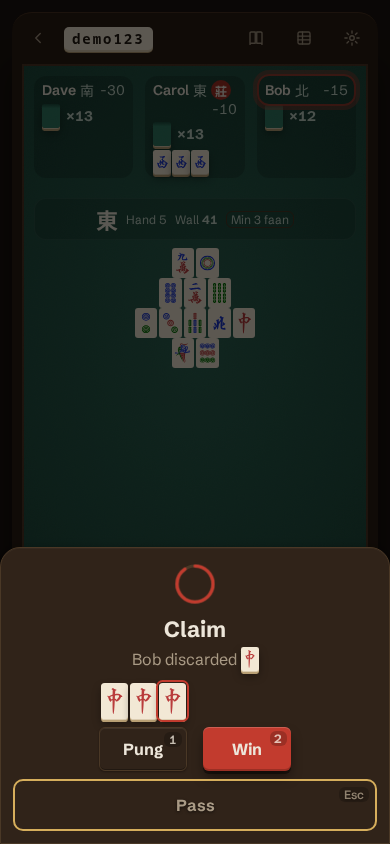
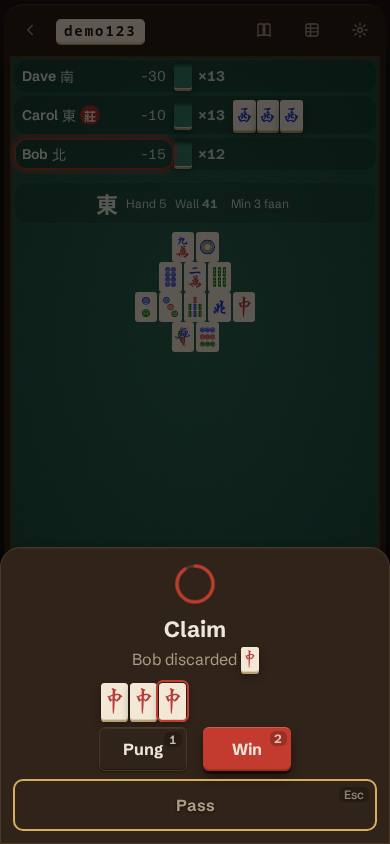
feat(web): roomier phone table layout, no double-tap zoom
- portrait: hand wraps to two rows of 7 non-overlapping tiles; trimmed page/rim/felt gutters
- phone opponents: full-width chip rows (plate, ×N, melds wrapping only when needed)
- landscape: own melds beside the seat plate; hand tiles sized by width and height (44-56px)
- html touch-action: manipulation disables double-tap zoom; no tap highlight/selection on tiles

diff --git a/web/src/routes/table/[id]/table.e2e.ts b/web/src/routes/table/[id]/table.e2e.ts
@@ -197,6 +197,56 @@ for (const [width, height] of VIEWPORTS) {
 	});
 }
 
+test('a portrait phone wraps the hand into two rows of non-overlapping tiles', async ({ page }) => {
+	await page.setViewportSize({ width: 390, height: 844 });
+	await page.goto('/table/abc123?mock=your-turn');
+	await page.waitForLoadState('networkidle');
+
+	const boxes = await page
+		.locator('.seat-region--self .hand-tile-slot')
+		.evaluateAll((els) => els.map((el) => el.getBoundingClientRect().toJSON()));
+	expect(boxes).toHaveLength(14);
+	expect(new Set(boxes.map((b) => Math.round(b.top))).size).toBe(2);
+	for (const [i, a] of boxes.entries()) {
+		expect(a.width).toBeGreaterThanOrEqual(36);
+		for (const b of boxes.slice(i + 1)) {
+			const overlap =
+				a.left < b.right - 0.5 &&
+				b.left < a.right - 0.5 &&
+				a.top < b.bottom - 0.5 &&
+				b.top < a.bottom - 0.5;
+			expect(overlap).toBe(false);
+		}
+	}
+});
+
+test('portrait phone opponents are stacked full-width chip rows', async ({ page }) => {
+	await page.setViewportSize({ width: 390, height: 844 });
+	await page.goto('/table/abc123?mock=your-turn');
+	await page.waitForLoadState('networkidle');
+
+	const boxes = [];
+	for (const pos of ['left', 'across', 'right']) {
+		boxes.push((await page.locator(`.seat-region--${pos}`).boundingBox())!);
+	}
+	for (const box of boxes) expect(box.width).toBeGreaterThan(300);
+	expect(boxes[0].y + boxes[0].height).toBeLessThanOrEqual(boxes[1].y);
+	expect(boxes[1].y + boxes[1].height).toBeLessThanOrEqual(boxes[2].y);
+});
+
+test('phone landscape puts your melds on the seat plate row', async ({ page }) => {
+	await page.setViewportSize({ width: 844, height: 390 });
+	await page.goto('/table/abc123?mock=your-turn');
+	await page.waitForLoadState('networkidle');
+
+	const self = page.locator('.seat-region--self');
+	const plate = (await self.locator('.seat-plate').boundingBox())!;
+	const melds = (await self.locator('.meld-row').boundingBox())!;
+	expect(melds.x).toBeGreaterThan(plate.x + plate.width);
+	expect(melds.y).toBeLessThan(plate.y + plate.height);
+	expect(melds.y + melds.height).toBeGreaterThan(plate.y);
+});
+
 for (const [width, height] of [
 	[390, 844],
 	[844, 390],

diff --git a/web/src/lib/table/YourSeatRegion.svelte b/web/src/lib/table/YourSeatRegion.svelte
@@ -405,6 +405,10 @@
 		background: none;
 		cursor: pointer;
 		transition: transform var(--dur-1) var(--ease-out);
+		// rapid taps on ios otherwise select the face glyph or flash the grey tap highlight.
+		-webkit-tap-highlight-color: transparent;
+		-webkit-touch-callout: none;
+		user-select: none;
 
 		// hit area extended down by the lift so the pointer stays over a raised tile; without it,
 		// hovering the bottom edge lifts the tile off the pointer and hover/cursor flicker.
@@ -523,11 +527,56 @@
 		}
 	}
 
-	// short landscape: the hand can't take a third of a ~390px screen; tiles stop at the 44px
-	// touch-target width instead of growing to 63.
-	@include layout.phone-landscape {
+	// portrait phone: 14 tiles in one row overlap to ~half a face, so wrap to two rows of 7 that
+	// never overlap; the centre has height to spare. row-gap clears a lifted second-row tile.
+	@include layout.phone-portrait {
+		.seat-region--self {
+			padding-inline: var(--space-1);
+		}
+
 		.hand-row {
-			--hand-tile-w: 44px;
+			--hand-tile-w: clamp(
+				36px,
+				calc((100cqi - 6 * var(--hand-gap) - var(--hand-drawn-gap) - 1px) / 7),
+				63px
+			);
+			--hand-step: var(--hand-gap);
+			flex-wrap: wrap;
+			row-gap: calc(var(--hand-tile-w) * 0.4);
+			padding-block-start: calc(var(--hand-tile-w) * 0.4);
+		}
+
+		.hand-tile-slot:nth-child(7n + 1):not(.hand-tile-slot--drawn) {
+			margin-inline-start: 0;
+		}
+	}
+
+	// short landscape: melds share the plate's row instead of taking their own, and tiles grow
+	// with width only as far as ~16% of the viewport height allows (44px floor, 56px cap).
+	@include layout.phone-landscape {
+		.seat-region--self {
+			display: grid;
+			grid-template-areas: 'plate melds' 'hand hand';
+			grid-template-columns: auto minmax(0, 1fr);
+			align-items: center;
+			column-gap: var(--space-4);
+		}
+
+		.seat-region--self > :global(.seat-plate) {
+			grid-area: plate;
+		}
+
+		.meld-row {
+			grid-area: melds;
+			min-block-size: 0;
+		}
+
+		.your-hand {
+			grid-area: hand;
+		}
+
+		.hand-row {
+			--hand-tile-w: clamp(44px, min(var(--hand-fit-w), 16dvh * 3 / 4), 56px);
 		}
 	}
 </style>

diff --git a/web/src/lib/table/OpponentRegion.svelte b/web/src/lib/table/OpponentRegion.svelte
@@ -251,33 +251,38 @@
 		display: none;
 	}
 
-	// short landscape: each chip gets a third of the side column and scrolls its own melds.
-	@include layout.phone-landscape {
-		.seat-region {
-			overflow-y: auto;
-		}
-	}
-
-	// sub-768px: a compact chip in the top row -- one back plus a ×N count. the other backs stay
-	// in the DOM (positional identity, frontend.md §4), only hidden.
+	// sub-768px chip row: plate, one back + ×N, melds (second line only if they don't fit).
+	// the other backs stay in the DOM (positional identity, frontend.md §4), only hidden.
 	@include layout.phone-only {
 		.seat-region {
-			gap: var(--space-1);
+			flex-flow: row wrap;
+			align-items: center;
+			gap: var(--space-1) var(--space-2);
 			padding: var(--space-1) var(--space-2);
 			border-radius: var(--radius-md);
 			background: rgb(0 0 0 / 0.18);
 		}
 
 		.seat-hand-strip {
-			flex-flow: row wrap;
-			align-items: center;
+			display: contents;
 		}
 
-		// a third of a phone is too narrow for name + wind + badges + score on one line.
+		// fixed width so the ×N counts line up down the three rows; long names truncate.
 		.seat-region :global(.seat-plate) {
-			flex-wrap: wrap;
-			gap: 0 var(--space-1);
+			flex: 0 0 9rem;
+			gap: var(--space-1);
 			min-width: 0;
+		}
+
+		.seat-region :global(.seat-name) {
+			min-width: 0;
+			overflow: hidden;
+			text-overflow: ellipsis;
+			white-space: nowrap;
+		}
+
+		.meld-row .mini-tile {
+			height: 30px;
 		}
 
 		.backs-row {
@@ -296,6 +301,18 @@
 			font-size: var(--font-size-sm);
 			font-weight: 700;
 			font-variant-numeric: tabular-nums;
+		}
+	}
+
+	// short landscape: each chip gets a third of the side column; scrolls only if melds overflow it.
+	@include layout.phone-landscape {
+		.seat-region {
+			align-content: center;
+			overflow-y: auto;
+		}
+
+		.meld-row .mini-tile {
+			height: 26px;
 		}
 	}
 </style>

diff --git a/web/src/lib/styles/_layout.scss b/web/src/lib/styles/_layout.scss
@@ -26,6 +26,13 @@ $breakpoint-short: 500px;
 	}
 }
 
+// phone-only minus phone-landscape: a narrow screen with height to spare.
+@mixin phone-portrait {
+	@media (max-width: $breakpoint-tablet - 1) and (min-height: $breakpoint-short + 1) {
+		@content;
+	}
+}
+
 @mixin desktop-up {
 	@media (min-width: $breakpoint-desktop) and (min-height: $breakpoint-short + 1) {
 		@content;
@@ -57,13 +64,17 @@ $breakpoint-short: 500px;
 	grid-template-rows: auto 1fr auto;
 	gap: var(--space-3);
 
+	// opponents stack as full-width chip rows: a third of a phone made melds 18px wide and wrap.
 	@include phone-only {
 		grid-template-areas:
-			'left across right'
-			'center center center'
-			'self self self';
-		grid-template-columns: repeat(3, minmax(0, 1fr));
-		grid-template-rows: auto 1fr auto;
+			'left'
+			'across'
+			'right'
+			'center'
+			'self';
+		grid-template-columns: minmax(0, 1fr);
+		grid-template-rows: auto auto auto 1fr auto;
+		gap: var(--space-1);
 	}
 
 	// opponents stack as chips in a side column, so the centre gets the full height above the hand.
@@ -73,7 +84,7 @@ $breakpoint-short: 500px;
 			'left center'
 			'right center'
 			'self self';
-		grid-template-columns: minmax(8rem, 13rem) minmax(0, 1fr);
+		grid-template-columns: minmax(10rem, 15rem) minmax(0, 1fr);
 		grid-template-rows: repeat(3, minmax(0, 1fr)) auto;
 		gap: var(--space-1) var(--space-2);
 	}

diff --git a/web/src/routes/table/[id]/+page.svelte b/web/src/routes/table/[id]/+page.svelte
@@ -1227,4 +1227,17 @@
 			overflow-y: auto;
 		}
 	}
+
+	// portrait phone: page padding, rim and felt padding cost ~22% of a 390px width; the hand
+	// gets it back (two rows of ~46px tiles instead of ~40px).
+	@include layout.phone-portrait {
+		.table-page {
+			padding: var(--space-1);
+		}
+
+		.table-surface {
+			padding: var(--space-1);
+			border-width: 4px 6px 6px;
+		}
+	}
 </style>

diff --git a/web/src/lib/styles/app.scss b/web/src/lib/styles/app.scss
@@ -8,6 +8,11 @@
 	box-sizing: border-box;
 }
 
+// no double-tap zoom (quick repeat taps on tiles/buttons zoomed the page); pinch-zoom stays.
+html {
+	touch-action: manipulation;
+}
+
 body {
 	margin: 0;
 	background: var(--color-bg);

diff --git a/docs/frontend.md b/docs/frontend.md
@@ -228,7 +228,18 @@ collapses instead. Your own meld row sits above your name, toward the centre.
 | 44–63px | shrinks to fit |
 | < 44px | stays 44px (touch target) and overlaps via negative `margin-inline-start`, same formula |
 
-No horizontal scroll. Pinned by `table.e2e.ts` at 390×844, 390×700, 844×390, 1024×768 and
+**Portrait phone** (`phone-portrait`: `phone-only` minus `phone-landscape`) wraps the hand into two
+rows of 7 instead (`flex-wrap`, tile width `clamp(36px, fit-7, 63px)`, ~46px at 390px) — one row of
+14 overlapped to ~half a face there, hiding tiles and sending taps to the neighbour, while the
+centre had height to spare. Page padding, rim and felt padding shrink there too (they took ~84px of
+390). `row-gap` and a top pad equal the two-step lift (30% of tile height),
+so a lifted tile never covers the row above or the seat plate.
+
+**Phone landscape** keeps one row, with tiles `clamp(44px, min(fit-14, 16dvh × 3/4), 56px)` —
+height-bound, since the hand can't take more of a ~390px-tall screen. Your melds/flowers sit
+beside your `SeatPlate` (grid `'plate melds' 'hand hand'`) instead of in their own row above it.
+
+No horizontal scroll; two-row, non-overlapping at 390×844. Pinned by `table.e2e.ts` at 390×844, 390×700, 844×390, 1024×768 and
 1440×900 (last tile and drawn tile inside the viewport, clear of the right opponent at tablet-up),
 plus claim buttons fully in view and clickable at 390×844, 844×390, 1024×768 and 1440×900.
 
@@ -237,7 +248,7 @@ plus claim buttons fully in view and clickable at 390×844, 844×390, 1024×768 
 | Mixin | Query | Layout |
 | --- | --- | --- |
 | `phone-only` | `max-width: 767px`, or `max-height: 500px` | opponent chips, strip pools, sticky hand bar (below) |
-| `phone-landscape` | `max-height: 500px` and landscape | on top of `phone-only`: no page scroll, the three opponent chips stack in a side column beside the centre (`'across center' 'left center' 'right center' 'self self'`), each a third of the height scrolling its own melds; the centre scrolls inside itself; hand tiles fixed at the 44px touch width |
+| `phone-landscape` | `max-height: 500px` and landscape | on top of `phone-only`: no page scroll, the three opponent chips stack in a side column beside the centre (`'across center' 'left center' 'right center' 'self self'`), each a third of the height (scrolling only if its melds overflow); the centre scrolls inside itself; hand tiles 44–56px (below) |
 | `tablet-up` | `min-width: 768px` and `min-height: 501px` | the box layout above |
 | `desktop-up` | `min-width: 1180px` and `min-height: 501px` | roomier page and surface padding |
 
@@ -261,10 +272,13 @@ seated as East") `windWord()` returns `WIND_LABEL`'s English word in `en` and `W
 
 Below 768px (phone portrait):
 
-- All three opponents become compact chips sharing the top grid row (`left · across · right`,
-  `layout.seat-region-grid`), so the centre and your hand get the full width. Each chip is the
-  `SeatPlate`, then a single jade back with a `×N` count (`.backs-count`, `aria-hidden` — the row's
-  own label already states the count), then melds/flowers. The other backs stay in the DOM, hidden
+- All three opponents become compact chips, one full-width grid row each (`left`, `across`,
+  `right`, then `center`, `self`; `layout.seat-region-grid`) — three chips side by side left each
+  ~99px, with 18px meld tiles wrapping after four. Each chip is one wrapping flex line: the
+  `SeatPlate` (fixed 9rem so the counts align, long names truncate), a single jade back with a `×N`
+  count (`.backs-count`, `aria-hidden` — the row's own label already states the count), then
+  melds/flowers at 30px tall, which drop to a second line only when they don't fit (the strip is
+  `display: contents`). Phone landscape uses the same chip in its side column. The other backs stay in the DOM, hidden
   (`display: none`), so positional identity (§4) and the specs counting `.backs-row .mini-tile`
   are unchanged.
 - Each opponent's discard pool collapses to a horizontally-scrollable strip; full history stays in
@@ -311,6 +325,11 @@ Built today:
 | Claim     | `ClaimDialog`: one big button per offered option plus Pass, with a CSS countdown ring, ≥44px |
 | Declare   | win (hero when self-drawn) / concealed kong / added kong under your hand (`.declare-actions`) |
 | Sort hand | automatic; no manual reorder                                                               |
+
+**Double-tap zoom** is off app-wide: `html { touch-action: manipulation }` (`app.scss`), which
+keeps pinch-zoom. Not a `touchend` `preventDefault` guard — on iOS that also cancels the synthesized
+`click`, eating the second tap of a two-step discard. Hand tile buttons also drop the iOS tap
+highlight, callout and text selection that rapid taps triggered.
 
 **Discard mode.** A client pref (`ClientPrefs.discardMode`, `lib/ui/Settings.svelte`), default
 `'two-step'`, persisted the same way as `motion`/`soundEnabled` (§6 Persistence):
